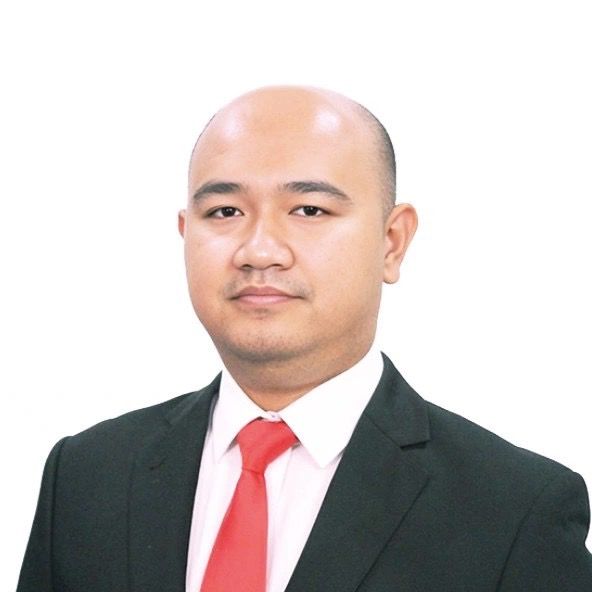
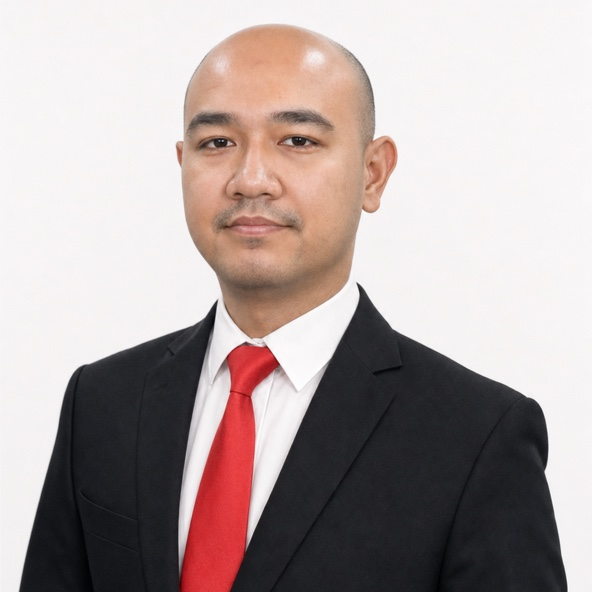
Update professional profile photo

diff --git a/index.html b/index.html
@@ -1138,7 +1138,7 @@
                     </div>
                     <div class="profile-card">
                         <a class="profile-photo-link" href="https://linkedin.com/in/mohamad-ikhsan-nurulloh/" target="_blank" rel="noopener noreferrer" aria-label="View Mohamad Ikhsan Nurulloh on LinkedIn">
-                            <img src="assets/images/profile/1727083885420.jpeg" alt="Mohamad Ikhsan Nurulloh" loading="eager" decoding="async">
+                            <img src="assets/images/profile/1727083885420.jpeg" alt="Professional portrait of Mohamad Ikhsan Nurulloh" loading="eager" decoding="async">
                         </a>
                         <div class="profile-copy">
                             <h2>Mohamad Ikhsan Nurulloh</h2>
